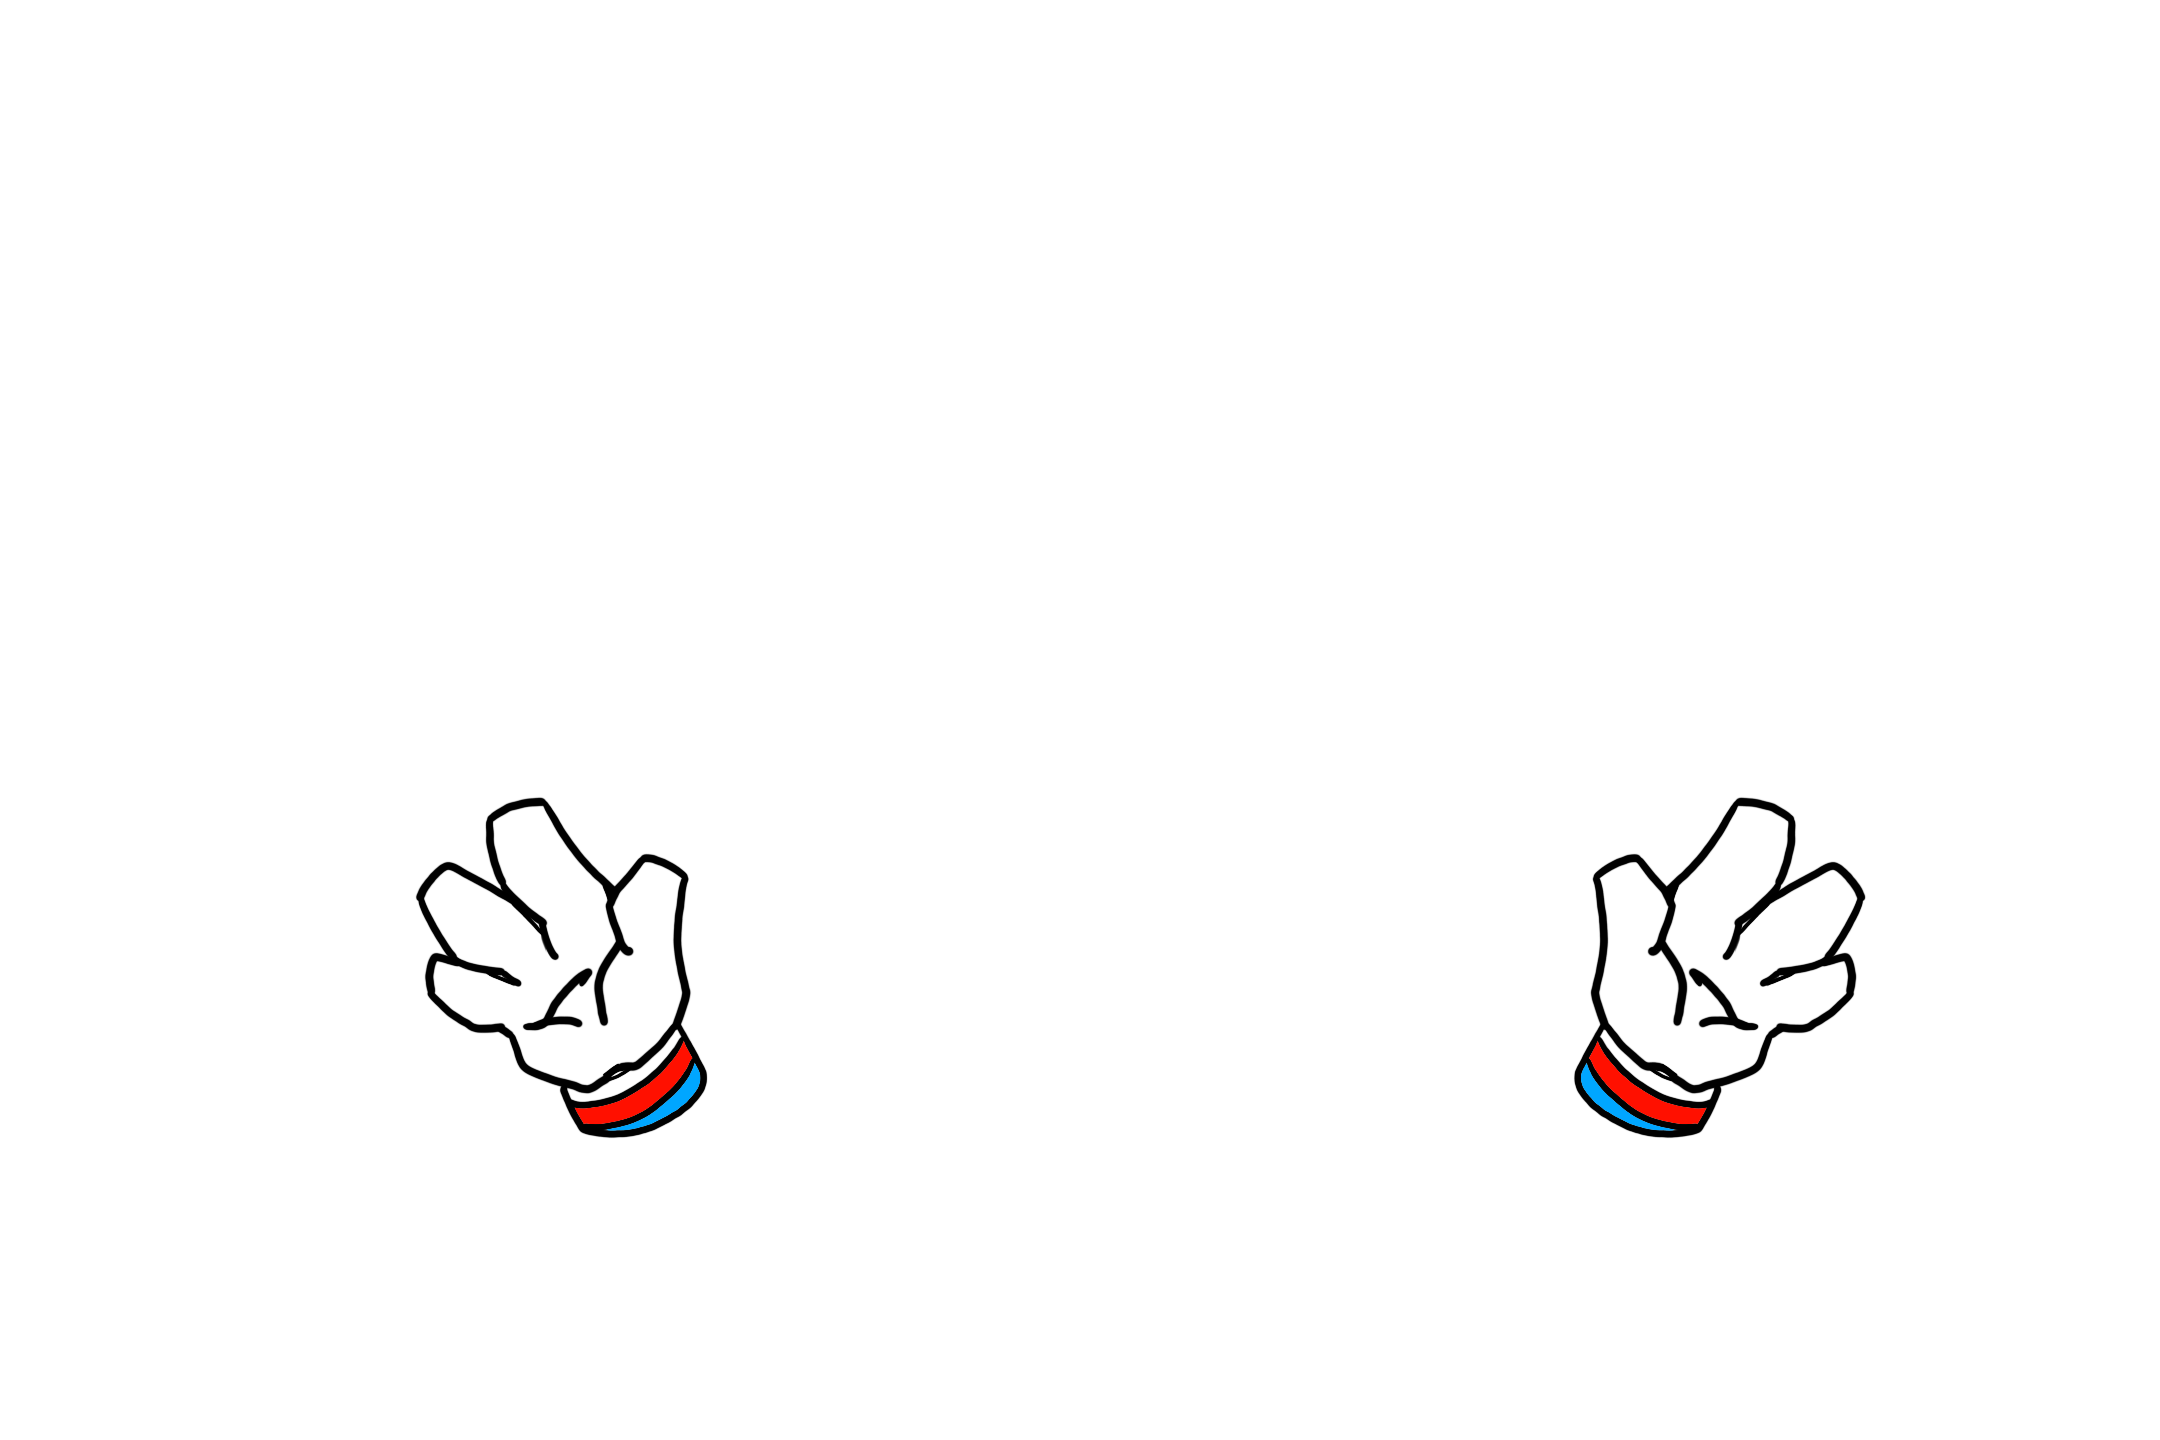
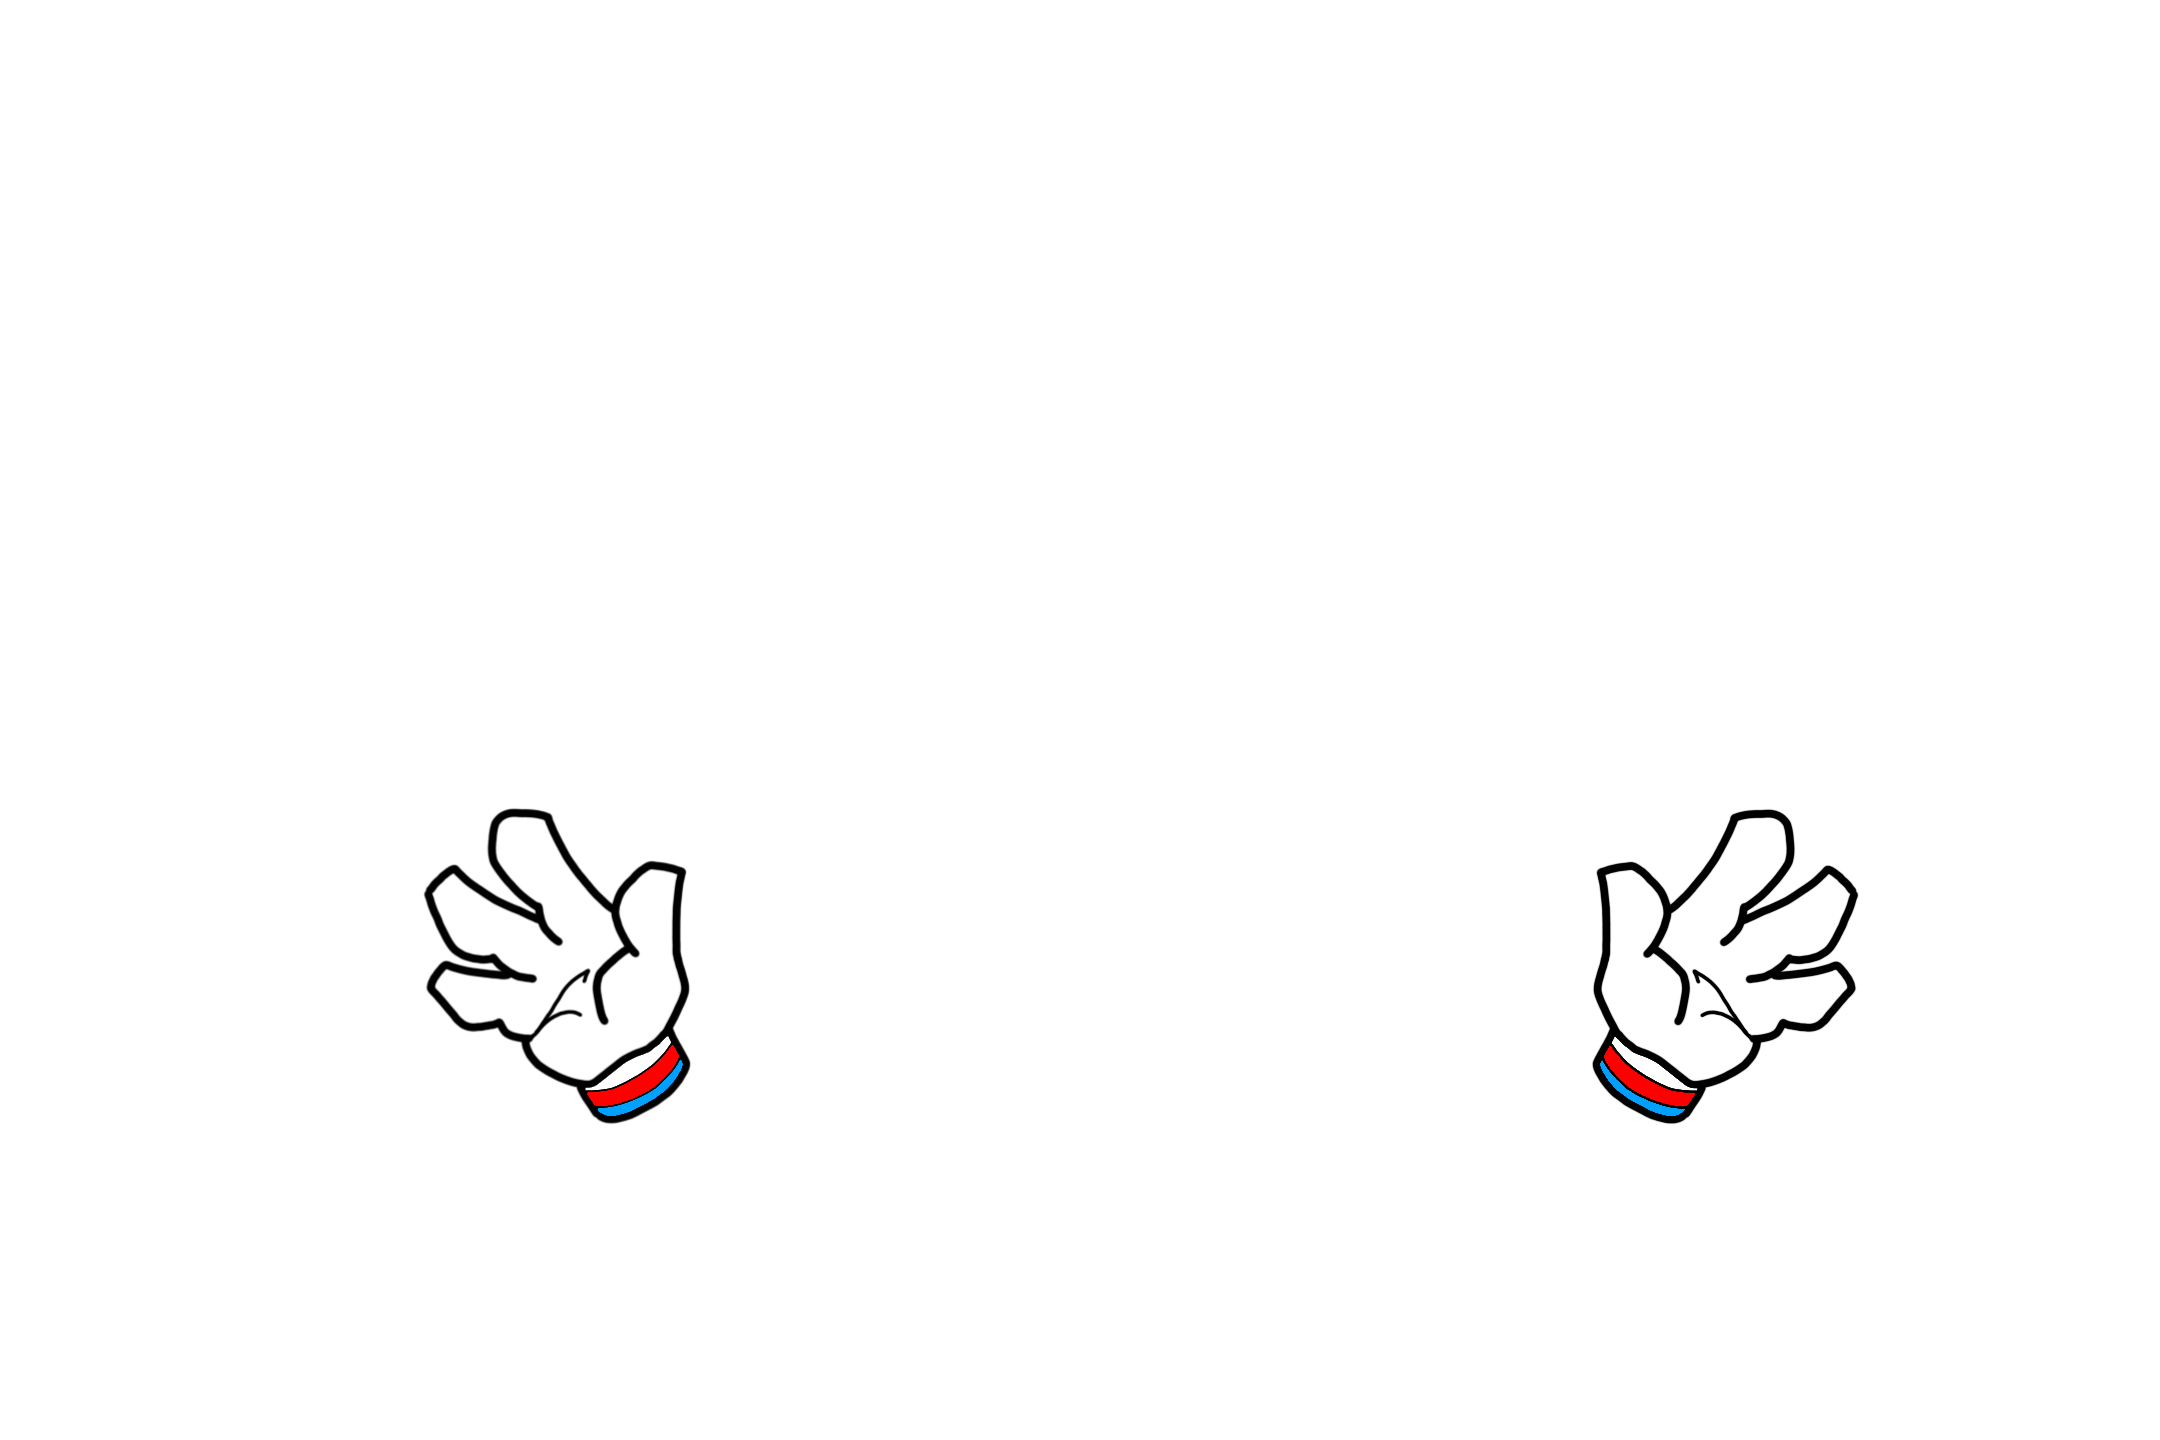
added hand colors

Changed region(s): [[0.7134, 0.5312, 0.8685, 0.8125], [0.1861, 0.5312, 0.3412, 0.8125]]

diff --git a/client/src/features/profile/Components/Avatar.jsx b/client/src/features/profile/Components/Avatar.jsx
@@ -28,30 +28,55 @@ export default function Avatar({ userData }) {
         </span>
       )}
 
-      {savedAvatar && (
-        <>
-          {savedAvatar.back && (
+      <div className="relative w-full h-full flex items-center justify-center mr-1.5">
+        {savedAvatar && (
+          <div className="absolute inset-0 scale-150 transition-transform">
+            {savedAvatar.back && (
+              <img
+                src={savedAvatar.back}
+                className="absolute inset-0 z-0 object-cover"
+              />
+            )}
+
             <img
-              src={savedAvatar.back}
-              className="absolute inset-0 z-0 object-cover scale-150"
+              src={savedAvatar.color}
+              className="absolute inset-0 z-5 object-contain"
             />
-          )}
-          <img src={savedAvatar.color} className="absolute inset-0 z-10" />
-          <img src={savedAvatar.base} className="absolute inset-0 z-20" />
-          {savedAvatar.head && (
-            <img src={savedAvatar.head} className="absolute inset-0 z-30" />
-          )}
-          {savedAvatar.chosenGloves && (
+
             <img
-              src={savedAvatar.chosenGloves}
-              className="absolute inset-0 z-20 object-contain scale-150"
+              src={savedAvatar.hand}
+              className="absolute inset-0 z-6 object-contain"
             />
-          )}
-          {savedAvatar.chosenMisc?.map((path, i) => (
-            <img key={i} src={path} className="absolute inset-0 z-40" />
-          ))}
-        </>
-      )}
+
+            <img
+              src={savedAvatar.base}
+              className="absolute inset-0 z-10 object-contain"
+            />
+
+            {savedAvatar.chosenGloves && (
+              <img
+                src={savedAvatar.chosenGloves}
+                className="absolute inset-0 z-20 object-contain"
+              />
+            )}
+
+            {savedAvatar.head && (
+              <img
+                src={savedAvatar.head}
+                className="absolute inset-0 z-30 object-contain"
+              />
+            )}
+
+            {savedAvatar.chosenMisc?.map((path, i) => (
+              <img
+                key={i}
+                src={path}
+                className="absolute inset-0 z-40 object-contain"
+              />
+            ))}
+          </div>
+        )}
+      </div>
     </div>
   );
 }

diff --git a/client/src/features/profile/Components/AvatarSelection.jsx b/client/src/features/profile/Components/AvatarSelection.jsx
@@ -24,6 +24,14 @@ export default function AvatarSelection() {
     "/Avatar/headband.png",
     "/Avatar/wreath.png",
   ];
+  const hands = [
+    "Avatar/Hands/image (1).png",
+    "Avatar/Hands/image (2).png",
+    "Avatar/Hands/image (3).png",
+    "Avatar/Hands/image (4).png",
+    "Avatar/Hands/image (5).png",
+    "Avatar/Hands/image (6).png",
+  ];
   const gloves = ["/Avatar/gloves.png", "/Avatar/gloves2.png"];
   const misc = [
     "/Avatar/outline.png",
@@ -37,6 +45,8 @@ export default function AvatarSelection() {
 
   const [base, setBase] = useState(profile?.base || base_pic[0]);
   const [color, setColor] = useState(profile?.color || colors[0]);
+  const [hand, setHand] = useState(profile?.hand || hands[0]);
+
   const [head, setHead] = useState(profile?.head || null);
   const [chosenGloves, setChosenGloves] = useState(
     profile?.chosenGloves || null,
@@ -47,6 +57,7 @@ export default function AvatarSelection() {
     if (profile) {
       setBack(profile.back || null);
       setColor(profile.color || colors[0]);
+      setHand(profile.hand || hands[0]);
 
       setBase(profile.base || base_pic[0]);
       setHead(profile.head || null);
@@ -84,6 +95,7 @@ export default function AvatarSelection() {
   const handleSave = () => {
     const avatarSelection = {
       back,
+      hand,
       color,
       base,
       head,
@@ -95,7 +107,7 @@ export default function AvatarSelection() {
       profile: avatarSelection,
     };
 
-    localStorage.setItem("user", JSON.stringify(updatedProfile));
+    // localStorage.setItem("user", JSON.stringify(updatedProfile));
 
     edit(updatedProfile);
   };
@@ -116,6 +128,10 @@ export default function AvatarSelection() {
           )}
           <img
             src={color}
+            className="absolute inset-0 w-full h-full z-5 object-contain"
+          />
+          <img
+            src={hand}
             className="absolute inset-0 w-full h-full z-5 object-contain"
           />
 
@@ -191,7 +207,10 @@ export default function AvatarSelection() {
                     ? "border-accent bg-accent/20"
                     : "border-transparent hover:bg-base-300"
                 }`}
-                onClick={() => setColor(pic)}
+                onClick={() => {
+                  setColor(pic);
+                  setHand(hands[index]);
+                }}
               />
             ))}
           </div>
